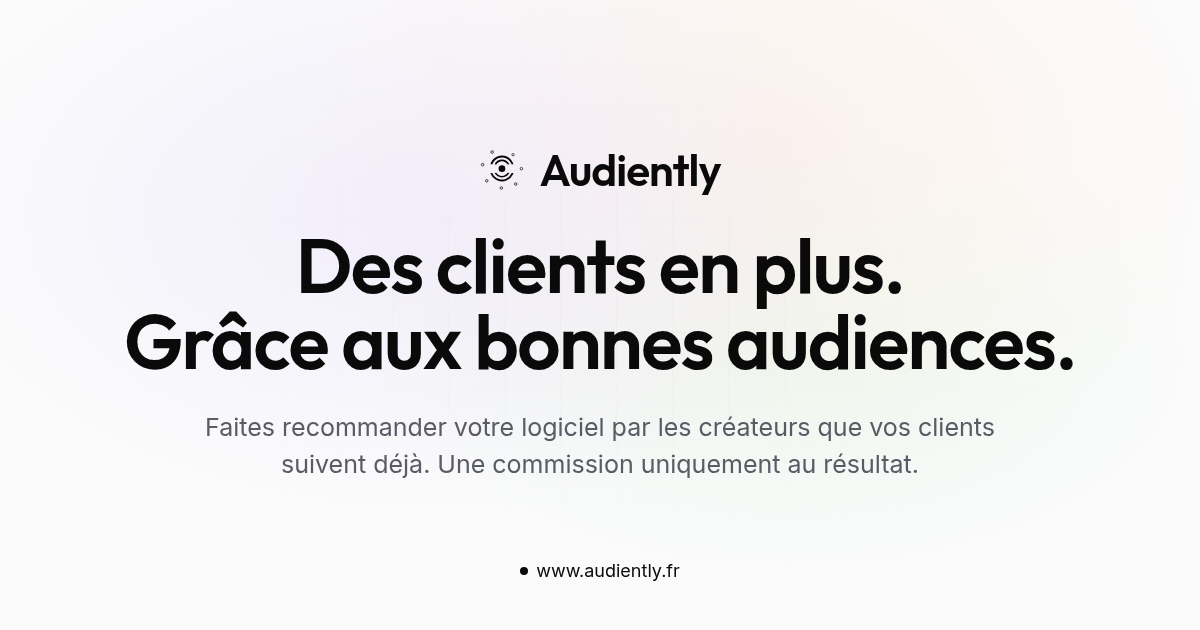
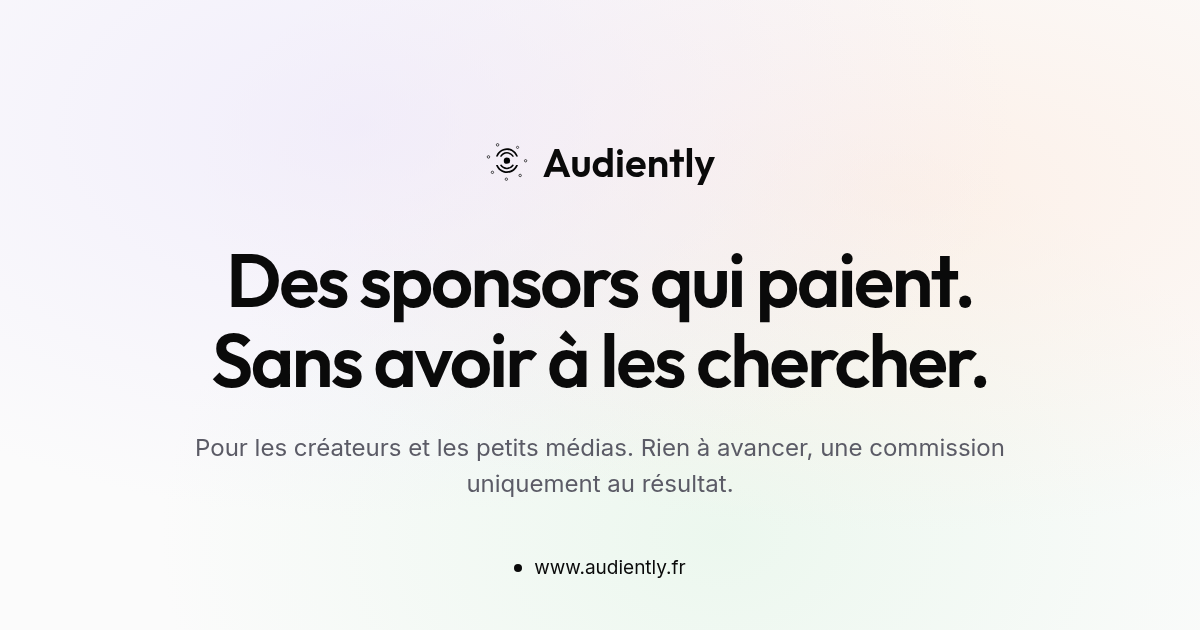
Site v4 : sponsors pour créateurs et petits médias

diff --git a/index.html b/index.html
@@ -3,8 +3,8 @@
 <head>
   <meta charset="utf-8">
   <meta name="viewport" content="width=device-width, initial-scale=1">
-  <title>Audiently — Créateurs et affiliation au résultat pour logiciels</title>
-  <meta name="description" content="Éditeurs de SaaS et d’apps : faites recommander votre logiciel par les créateurs suivis par vos clients. Sans frais d’entrée, commission au résultat.">
+  <title>Audiently — Des sponsors pour les créateurs et les petits médias</title>
+  <meta name="description" content="Créateurs et petits médias : Audiently vous trouve des sponsors qui paient, sans démarchage de votre part. Rien à avancer, une commission au résultat.">
   <meta name="robots" content="index, follow, max-image-preview:large">
   <meta name="author" content="Sébastien Kothé">
   <link rel="canonical" href="https://www.audiently.fr/">
@@ -19,19 +19,19 @@
   <meta property="og:type" content="website">
   <meta property="og:locale" content="fr_FR">
   <meta property="og:site_name" content="Audiently">
-  <meta property="og:title" content="Audiently — Des clients en plus, une commission au résultat">
-  <meta property="og:description" content="Votre logiciel, recommandé par les créateurs que vos clients suivent déjà. Vous ne payez une commission que lorsqu’un client apporté s’abonne et paie.">
+  <meta property="og:title" content="Audiently — Des sponsors qui paient, sans les chercher">
+  <meta property="og:description" content="Votre audience a de la valeur. Audiently vous présente les marques prêtes à la sponsoriser. Rien à avancer.">
   <meta property="og:url" content="https://www.audiently.fr/">
   <meta property="og:image" content="https://www.audiently.fr/assets/img/og-image.png">
   <meta property="og:image:type" content="image/png">
   <meta property="og:image:width" content="1200">
   <meta property="og:image:height" content="630">
-  <meta property="og:image:alt" content="Audiently : des clients en plus, grâce aux bonnes audiences.">
+  <meta property="og:image:alt" content="Audiently : des sponsors qui paient, sans avoir à les chercher.">
   <meta name="twitter:card" content="summary_large_image">
-  <meta name="twitter:title" content="Audiently — Des clients en plus, une commission au résultat">
-  <meta name="twitter:description" content="Votre logiciel, recommandé par les créateurs que vos clients suivent déjà. Vous ne payez une commission que lorsqu’un client apporté s’abonne et paie.">
+  <meta name="twitter:title" content="Audiently — Des sponsors qui paient, sans les chercher">
+  <meta name="twitter:description" content="Votre audience a de la valeur. Audiently vous présente les marques prêtes à la sponsoriser. Rien à avancer.">
   <meta name="twitter:image" content="https://www.audiently.fr/assets/img/og-image.png">
-  <meta name="twitter:image:alt" content="Audiently : des clients en plus, grâce aux bonnes audiences.">
+  <meta name="twitter:image:alt" content="Audiently : des sponsors qui paient, sans avoir à les chercher.">
   <script type="application/ld+json">
 {
   "@context": "https://schema.org",
@@ -48,7 +48,7 @@
         "height": 512
       },
       "image": "https://www.audiently.fr/assets/img/og-image.png",
-      "description": "Audiently met en relation les éditeurs de logiciels avec les créateurs et médias suivis par leurs clients, avec une commission uniquement sur les abonnements payés.",
+      "description": "Audiently trouve des sponsors pour les créateurs et les petits médias, avec une commission de 20 % sur chaque sponsor pendant 6 mois.",
       "email": "sebastien.kothe.pro@gmail.com",
       "areaServed": {
         "@type": "Country",
@@ -95,10 +95,10 @@
   <header class="site-header container">
     <a class="brand" href="#accueil" aria-label="Audiently, accueil"><img src="assets/img/logo.svg" width="28" height="28" alt=""><span>Audiently</span></a>
     <nav aria-label="Navigation principale">
-      <a class="nav-link" href="#editeurs">Éditeurs</a>
       <a class="nav-link" href="#createurs">Créateurs</a>
+      <a class="nav-link" href="#sponsors">Sponsors</a>
       <a class="nav-link nav-how" href="#fonctionnement">Comment ça marche</a>
-      <a class="button button-small" data-goatcounter-click="cta-header" data-goatcounter-title="Parlons de votre projet (en-tête)" href="mailto:sebastien.kothe.pro@gmail.com?subject=Parlons%20de%20mon%20projet%20avec%20Audiently"><span class="label-wide">Parlons de votre projet</span><span class="label-short">Parlons-en</span><span class="arrow" aria-hidden="true">↗</span></a>
+      <a class="button button-small" data-goatcounter-click="cta-header" data-goatcounter-title="Parlons de votre audience (en-tête)" href="mailto:sebastien.kothe.pro@gmail.com?subject=Trouver%20des%20sponsors%20avec%20Audiently"><span class="label-wide">Parlons de votre audience</span><span class="label-short">Parlons-en</span><span class="arrow" aria-hidden="true">↗</span></a>
     </nav>
   </header>
   <main id="contenu">
@@ -106,86 +106,86 @@
       <div class="hero-halo" aria-hidden="true"></div>
       <div class="container hero-grid">
         <div class="hero-copy">
-          <p class="eyebrow"><span class="status-dot" aria-hidden="true"></span>Les logiciels utiles rencontrent leur public</p>
-          <h1 id="hero-title"><span>Des clients en plus.</span><span>Grâce aux bonnes</span><span><span class="word-mark">audiences.</span></span></h1>
-          <p class="hero-description">Faites recommander votre logiciel par les créateurs que vos clients suivent déjà. Vous ne payez une commission que lorsqu’un client apporté s’abonne et paie.</p>
-          <a class="button" data-goatcounter-click="cta-hero" data-goatcounter-title="Parlons de votre logiciel (accueil)" href="mailto:sebastien.kothe.pro@gmail.com?subject=Faire%20conna%C3%AEtre%20mon%20logiciel%20avec%20Audiently">Parlons de votre logiciel <span class="arrow" aria-hidden="true">↗</span></a>
-          <p class="hero-note">Pas de forfait. Pas de frais d’entrée. Au résultat.</p>
+          <p class="eyebrow"><span class="status-dot" aria-hidden="true"></span>Pour les créateurs et les petits médias</p>
+          <h1 id="hero-title"><span>Des sponsors.</span><span>Sans avoir à les</span><span><span class="word-mark">chercher.</span></span></h1>
+          <p class="hero-description">Votre audience est fidèle, même si elle est petite. Audiently trouve les marques prêtes à la sponsoriser et vous les présente. Vous n’avez rien à démarcher.</p>
+          <a class="button" data-goatcounter-click="cta-hero" data-goatcounter-title="Présenter mon audience (accueil)" href="mailto:sebastien.kothe.pro@gmail.com?subject=Trouver%20des%20sponsors%20pour%20mon%20audience">Présenter mon audience <span class="arrow" aria-hidden="true">↗</span></a>
+          <p class="hero-note">Rien à avancer. Pas de frais d’entrée. Au résultat.</p>
         </div>
         <div class="hero-visual">
-          <p class="visual-caption"><span class="accent-stroke" aria-hidden="true"></span>Une recommandation. Un abonnement. Une commission.</p>
+          <p class="visual-caption"><span class="accent-stroke" aria-hidden="true"></span>Une audience. Un sponsor. Un paiement.</p>
           <figure class="journey-card" aria-labelledby="example-caption">
             <figcaption class="journey-heading" id="example-caption">
-              <div><span class="interface-label">Le parcours d’un client</span><span class="interface-description">Schéma de fonctionnement</span></div>
+              <div><span class="interface-label">Le parcours d’un sponsor</span><span class="interface-description">Schéma de fonctionnement</span></div>
               <span class="badge">Le principe</span>
             </figcaption>
             <ol class="journey" role="list">
-              <li><span class="journey-icon"><svg width="24" height="24" viewBox="0 0 24 24" fill="none" stroke="currentColor" stroke-width="1.5" stroke-linecap="round" stroke-linejoin="round" aria-hidden="true"><rect x="3" y="4" width="18" height="16" rx="3"/><path d="M3 9h18M7 6.5h.01M10 6.5h.01M8 13h8M8 16h5"/></svg></span><div><strong class="journey-title">Votre logiciel</strong><p>Une solution utile à faire connaître</p></div><span class="node-indicator" aria-hidden="true"></span></li>
-              <li><span class="journey-icon"><svg width="24" height="24" viewBox="0 0 24 24" fill="none" stroke="currentColor" stroke-width="1.5" stroke-linecap="round" stroke-linejoin="round" aria-hidden="true"><path d="m4 10 12-5v14L4 14zM16 9h2a3 3 0 0 1 0 6h-2M5 15l1 5h4l-2-4"/></svg></span><div><strong class="journey-title">Le bon créateur</strong><p>Une recommandation avec un lien suivi</p></div><span class="node-indicator" aria-hidden="true"></span></li>
-              <li><span class="journey-icon journey-icon-paid"><svg width="24" height="24" viewBox="0 0 24 24" fill="none" stroke="currentColor" stroke-width="1.5" stroke-linecap="round" stroke-linejoin="round" aria-hidden="true"><rect x="3" y="4" width="18" height="16" rx="3"/><path d="M3 9h18m-10 5 2 2 4-4"/></svg></span><div><strong class="journey-title">Un client abonné</strong><p>Un abonnement réellement payé</p></div><span class="paid-indicator" aria-hidden="true"><svg width="24" height="24" viewBox="0 0 24 24" fill="none" stroke="currentColor" stroke-width="1.5" stroke-linecap="round" stroke-linejoin="round" aria-hidden="true"><path d="m6 12 4 4 8-8"/></svg></span></li>
+              <li><span class="journey-icon"><svg width="24" height="24" viewBox="0 0 24 24" fill="none" stroke="currentColor" stroke-width="1.5" stroke-linecap="round" stroke-linejoin="round" aria-hidden="true"><rect x="3" y="4" width="18" height="16" rx="3"/><path d="M3 9h18M7 6.5h.01M10 6.5h.01M8 13h8M8 16h5"/></svg></span><div><strong class="journey-title">Votre audience</strong><p>Une communauté qui vous fait confiance</p></div><span class="node-indicator" aria-hidden="true"></span></li>
+              <li><span class="journey-icon"><svg width="24" height="24" viewBox="0 0 24 24" fill="none" stroke="currentColor" stroke-width="1.5" stroke-linecap="round" stroke-linejoin="round" aria-hidden="true"><path d="m4 10 12-5v14L4 14zM16 9h2a3 3 0 0 1 0 6h-2M5 15l1 5h4l-2-4"/></svg></span><div><strong class="journey-title">Le bon sponsor</strong><p>Une marque en phase avec vos sujets</p></div><span class="node-indicator" aria-hidden="true"></span></li>
+              <li><span class="journey-icon journey-icon-paid"><svg width="24" height="24" viewBox="0 0 24 24" fill="none" stroke="currentColor" stroke-width="1.5" stroke-linecap="round" stroke-linejoin="round" aria-hidden="true"><rect x="3" y="4" width="18" height="16" rx="3"/><path d="M3 9h18m-10 5 2 2 4-4"/></svg></span><div><strong class="journey-title">Un sponsor qui paie</strong><p>Une collaboration réellement payée</p></div><span class="paid-indicator" aria-hidden="true"><svg width="24" height="24" viewBox="0 0 24 24" fill="none" stroke="currentColor" stroke-width="1.5" stroke-linecap="round" stroke-linejoin="round" aria-hidden="true"><path d="m6 12 4 4 8-8"/></svg></span></li>
             </ol>
-            <div class="example-result"><div class="result-copy"><p>La commission se déclenche <strong>au résultat.</strong></p><span class="badge">Abonnement payé</span></div><span class="result-track" aria-hidden="true"><span></span></span></div>
+            <div class="example-result"><div class="result-copy"><p>Notre commission se déclenche <strong>au paiement.</strong></p><span class="badge">Sponsor payé</span></div><span class="result-track" aria-hidden="true"><span></span></span></div>
           </figure>
-          <p class="example-note">Le créateur reçoit sa part de la commission,<br class="desktop-break"> selon les conditions convenues.</p>
+          <p class="example-note">20 % de chaque sponsor, pendant 6 mois<br class="desktop-break"> à partir de son premier paiement.</p>
         </div>
       </div>
       <div class="container">
         <ul class="principles" aria-label="Le principe au résultat" role="list">
-          <li><span class="principle-icon"><svg width="24" height="24" viewBox="0 0 24 24" fill="none" stroke="currentColor" stroke-width="1.5" stroke-linecap="round" stroke-linejoin="round" aria-hidden="true"><path d="m6 12 4 4 8-8"/><path d="M20 12v6a3 3 0 0 1-3 3H6a3 3 0 0 1-3-3V7a3 3 0 0 1 3-3h8"/></svg></span><span>Sans frais d’entrée</span></li>
-          <li><span class="principle-icon"><svg width="24" height="24" viewBox="0 0 24 24" fill="none" stroke="currentColor" stroke-width="1.5" stroke-linecap="round" stroke-linejoin="round" aria-hidden="true"><path d="m10 14 4-4m-6 6-1 1a4 4 0 0 1-6-6l4-4a4 4 0 0 1 6 0m2 1 1-1a4 4 0 0 1 6 6l-4 4a4 4 0 0 1-6 0" transform="translate(1 0)"/></svg></span><span>Un lien suivi</span></li>
+          <li><span class="principle-icon"><svg width="24" height="24" viewBox="0 0 24 24" fill="none" stroke="currentColor" stroke-width="1.5" stroke-linecap="round" stroke-linejoin="round" aria-hidden="true"><path d="m6 12 4 4 8-8"/><path d="M20 12v6a3 3 0 0 1-3 3H6a3 3 0 0 1-3-3V7a3 3 0 0 1 3-3h8"/></svg></span><span>Rien à avancer</span></li>
+          <li><span class="principle-icon"><svg width="24" height="24" viewBox="0 0 24 24" fill="none" stroke="currentColor" stroke-width="1.5" stroke-linecap="round" stroke-linejoin="round" aria-hidden="true"><path d="m10 14 4-4m-6 6-1 1a4 4 0 0 1-6-6l4-4a4 4 0 0 1 6 0m2 1 1-1a4 4 0 0 1 6 6l-4 4a4 4 0 0 1-6 0" transform="translate(1 0)"/></svg></span><span>Des formats clairs</span></li>
           <li><span class="principle-icon"><svg width="24" height="24" viewBox="0 0 24 24" fill="none" stroke="currentColor" stroke-width="1.5" stroke-linecap="round" stroke-linejoin="round" aria-hidden="true"><path d="M5 20h14M7 16v-4m5 4V8m5 8V4"/></svg></span><span>Commission au résultat</span></li>
         </ul>
       </div>
     </section>
     <div class="audiences container">
-      <section class="audience-section" id="editeurs" aria-labelledby="editeurs-title">
+      <section class="audience-section" id="createurs" aria-labelledby="createurs-title">
         <div class="audience-intro" data-reveal>
-          <p class="section-label"><span aria-hidden="true"></span>Pour les éditeurs</p>
-          <h2 id="editeurs-title">Votre prochain client<br>suit déjà quelqu’un.</h2>
-          <p>Vous développez un SaaS ou une app en France. Audiently vous met en relation avec les créateurs et médias suivis par votre clientèle.</p>
-          <a class="text-link" data-goatcounter-click="cta-editeurs" data-goatcounter-title="Présenter mon logiciel" href="mailto:sebastien.kothe.pro@gmail.com?subject=Pr%C3%A9senter%20mon%20logiciel%20%C3%A0%20Audiently">Présenter mon logiciel <span class="arrow" aria-hidden="true">↗</span></a>
+          <p class="section-label"><span aria-hidden="true"></span>Pour les créateurs &amp; petits médias</p>
+          <h2 id="createurs-title">Votre audience compte.<br>Des marques la cherchent.</h2>
+          <p>De 1 000 à 20 000 abonnés, sur YouTube, X, un podcast ou une newsletter ? Audiently vous présente des sponsors adaptés à votre public.</p>
+          <a class="text-link" data-goatcounter-click="cta-createurs" data-goatcounter-title="Présenter mon audience" href="mailto:sebastien.kothe.pro@gmail.com?subject=Pr%C3%A9senter%20mon%20audience%20%C3%A0%20Audiently">Présenter mon audience <span class="arrow" aria-hidden="true">↗</span></a>
         </div>
         <div class="benefit-card" data-reveal>
-          <div class="card-heading"><span class="card-symbol" aria-hidden="true"><svg width="24" height="24" viewBox="0 0 24 24" fill="none" stroke="currentColor" stroke-width="1.5" stroke-linecap="round" stroke-linejoin="round" aria-hidden="true"><circle cx="9" cy="8" r="3"/><path d="M3 20v-2a6 6 0 0 1 12 0v2M16 5a3 3 0 0 1 0 6m2 3a5 5 0 0 1 3 4v2"/></svg></span><p>Le bon public, le bon modèle.</p></div>
+          <div class="card-heading"><span class="card-symbol" aria-hidden="true"><svg width="24" height="24" viewBox="0 0 24 24" fill="none" stroke="currentColor" stroke-width="1.5" stroke-linecap="round" stroke-linejoin="round" aria-hidden="true"><circle cx="9" cy="8" r="3"/><path d="M3 20v-2a6 6 0 0 1 12 0v2M16 5a3 3 0 0 1 0 6m2 3a5 5 0 0 1 3 4v2"/></svg></span><p>Le bon sponsor, sans démarcher.</p></div>
           <ul class="benefits" role="list">
-            <li><span class="feature-icon"><svg width="24" height="24" viewBox="0 0 24 24" fill="none" stroke="currentColor" stroke-width="1.5" stroke-linecap="round" stroke-linejoin="round" aria-hidden="true"><circle cx="9" cy="8" r="3"/><path d="M3 20v-2a6 6 0 0 1 12 0v2M16 5a3 3 0 0 1 0 6m2 3a5 5 0 0 1 3 4v2"/></svg></span><div><h3>Des audiences pertinentes</h3><p>YouTube, podcasts, newsletters ou blogs : là où vos futurs clients sont déjà à l’écoute.</p></div></li>
-            <li><span class="feature-icon"><svg width="24" height="24" viewBox="0 0 24 24" fill="none" stroke="currentColor" stroke-width="1.5" stroke-linecap="round" stroke-linejoin="round" aria-hidden="true"><path d="m10 14 4-4m-6 6-1 1a4 4 0 0 1-6-6l4-4a4 4 0 0 1 6 0m2 1 1-1a4 4 0 0 1 6 6l-4 4a4 4 0 0 1-6 0" transform="translate(1 0)"/></svg></span><div><h3>Des recommandations attribuées</h3><p>Un lien suivi pour relier chaque client apporté au créateur qui l’a recommandé.</p></div></li>
-            <li><span class="feature-icon"><svg width="24" height="24" viewBox="0 0 24 24" fill="none" stroke="currentColor" stroke-width="1.5" stroke-linecap="round" stroke-linejoin="round" aria-hidden="true"><path d="M5 20h14M7 16v-4m5 4V8m5 8V4"/></svg></span><div><h3>Une commission au résultat</h3><p>Vous payez uniquement pour les clients apportés qui s’abonnent et paient.</p></div></li>
+            <li><span class="feature-icon"><svg width="24" height="24" viewBox="0 0 24 24" fill="none" stroke="currentColor" stroke-width="1.5" stroke-linecap="round" stroke-linejoin="round" aria-hidden="true"><circle cx="9" cy="8" r="3"/><path d="M3 20v-2a6 6 0 0 1 12 0v2M16 5a3 3 0 0 1 0 6m2 3a5 5 0 0 1 3 4v2"/></svg></span><div><h3>Des sponsors qui vous ressemblent</h3><p>Des marques en lien avec vos sujets et votre public. Vous restez libre d’accepter ou de refuser.</p></div></li>
+            <li><span class="feature-icon"><svg width="24" height="24" viewBox="0 0 24 24" fill="none" stroke="currentColor" stroke-width="1.5" stroke-linecap="round" stroke-linejoin="round" aria-hidden="true"><path d="m10 14 4-4m-6 6-1 1a4 4 0 0 1-6-6l4-4a4 4 0 0 1 6 0m2 1 1-1a4 4 0 0 1 6 6l-4 4a4 4 0 0 1-6 0" transform="translate(1 0)"/></svg></span><div><h3>Des formats simples</h3><p>Intégration YouTube, post X, interview de lancement ou pack événement : vous savez ce que vous livrez.</p></div></li>
+            <li><span class="feature-icon"><svg width="24" height="24" viewBox="0 0 24 24" fill="none" stroke="currentColor" stroke-width="1.5" stroke-linecap="round" stroke-linejoin="round" aria-hidden="true"><path d="M5 20h14M7 16v-4m5 4V8m5 8V4"/></svg></span><div><h3>Une commission au résultat</h3><p>Rien à avancer. Audiently prend 20 % de chaque sponsor, pendant 6 mois à partir de son premier paiement.</p></div></li>
           </ul>
         </div>
       </section>
-      <section class="audience-section creator-section" id="createurs" aria-labelledby="createurs-title">
+      <section class="audience-section creator-section" id="sponsors" aria-labelledby="sponsors-title">
         <div class="audience-intro" data-reveal>
-          <p class="section-label"><span aria-hidden="true"></span>Pour les créateurs &amp; médias</p>
-          <h2 id="createurs-title">Recommandez utile.<br>Soyez rémunéré.</h2>
-          <p>Votre audience vous suit pour vos choix. Faites-lui découvrir des logiciels qui lui rendent service, en gardant votre liberté de recommandation.</p>
-          <a class="text-link" data-goatcounter-click="cta-createurs" data-goatcounter-title="Présenter mon audience" href="mailto:sebastien.kothe.pro@gmail.com?subject=Pr%C3%A9senter%20mon%20audience%20%C3%A0%20Audiently">Présenter mon audience <span class="arrow" aria-hidden="true">↗</span></a>
+          <p class="section-label"><span aria-hidden="true"></span>Pour les marques</p>
+          <h2 id="sponsors-title">Des audiences fidèles.<br>Prêtes à vous découvrir.</h2>
+          <p>Vous lancez un produit, un logiciel ou un événement ? Audiently vous présente les créateurs et les petits médias que suit votre futur public.</p>
+          <a class="text-link" data-goatcounter-click="cta-sponsors" data-goatcounter-title="Devenir sponsor" href="mailto:sebastien.kothe.pro@gmail.com?subject=Devenir%20sponsor%20avec%20Audiently">Devenir sponsor <span class="arrow" aria-hidden="true">↗</span></a>
         </div>
         <div class="benefit-card creator-card" data-reveal>
-          <div class="card-heading"><div class="media-icons" aria-hidden="true"><span><svg width="24" height="24" viewBox="0 0 24 24" fill="none" stroke="currentColor" stroke-width="1.5" stroke-linecap="round" stroke-linejoin="round" aria-hidden="true"><rect x="3" y="5" width="18" height="14" rx="4"/><path d="m10 9 5 3-5 3z"/></svg></span><span><svg width="24" height="24" viewBox="0 0 24 24" fill="none" stroke="currentColor" stroke-width="1.5" stroke-linecap="round" stroke-linejoin="round" aria-hidden="true"><rect x="9" y="3" width="6" height="12" rx="3"/><path d="M5 10v2a7 7 0 0 0 14 0v-2M12 19v3M8 22h8"/></svg></span><span><svg width="24" height="24" viewBox="0 0 24 24" fill="none" stroke="currentColor" stroke-width="1.5" stroke-linecap="round" stroke-linejoin="round" aria-hidden="true"><rect x="3" y="4" width="18" height="16" rx="3"/><path d="M7 8h10M7 12h4M7 16h10M15 12h2"/></svg></span></div><p>Votre audience reste votre priorité.</p></div>
+          <div class="card-heading"><div class="media-icons" aria-hidden="true"><span><svg width="24" height="24" viewBox="0 0 24 24" fill="none" stroke="currentColor" stroke-width="1.5" stroke-linecap="round" stroke-linejoin="round" aria-hidden="true"><rect x="3" y="5" width="18" height="14" rx="4"/><path d="m10 9 5 3-5 3z"/></svg></span><span><svg width="24" height="24" viewBox="0 0 24 24" fill="none" stroke="currentColor" stroke-width="1.5" stroke-linecap="round" stroke-linejoin="round" aria-hidden="true"><rect x="9" y="3" width="6" height="12" rx="3"/><path d="M5 10v2a7 7 0 0 0 14 0v-2M12 19v3M8 22h8"/></svg></span><span><svg width="24" height="24" viewBox="0 0 24 24" fill="none" stroke="currentColor" stroke-width="1.5" stroke-linecap="round" stroke-linejoin="round" aria-hidden="true"><rect x="3" y="4" width="18" height="16" rx="3"/><path d="M7 8h10M7 12h4M7 16h10M15 12h2"/></svg></span></div><p>Des formats prêts à lancer.</p></div>
           <ul class="benefits" role="list">
-            <li><span class="feature-icon"><svg width="24" height="24" viewBox="0 0 24 24" fill="none" stroke="currentColor" stroke-width="1.5" stroke-linecap="round" stroke-linejoin="round" aria-hidden="true"><path d="m6 12 4 4 8-8"/><path d="M20 12v6a3 3 0 0 1-3 3H6a3 3 0 0 1-3-3V7a3 3 0 0 1 3-3h8"/></svg></span><div><h3>Des logiciels qui ont du sens</h3><p>Des propositions adaptées aux besoins de votre audience. Vous restez libre de les accepter ou de les refuser.</p></div></li>
-            <li><span class="feature-icon"><svg width="24" height="24" viewBox="0 0 24 24" fill="none" stroke="currentColor" stroke-width="1.5" stroke-linecap="round" stroke-linejoin="round" aria-hidden="true"><path d="M5 20h14M7 16v-4m5 4V8m5 8V4"/></svg></span><div><h3>Une part pour chaque client apporté</h3><p>Vous êtes rémunéré lorsqu’un client venu de votre lien s’abonne et paie.</p></div></li>
-            <li><span class="feature-icon"><svg width="24" height="24" viewBox="0 0 24 24" fill="none" stroke="currentColor" stroke-width="1.5" stroke-linecap="round" stroke-linejoin="round" aria-hidden="true"><path d="M14 3H6a2 2 0 0 0-2 2v14a2 2 0 0 0 2 2h12a2 2 0 0 0 2-2V9zM14 3v6h6M8 13h8M8 17h5"/></svg></span><div><h3>Des conditions transparentes</h3><p>Les modalités sont définies par écrit et les recommandations signalées comme collaborations commerciales.</p></div></li>
+            <li><span class="feature-icon"><svg width="24" height="24" viewBox="0 0 24 24" fill="none" stroke="currentColor" stroke-width="1.5" stroke-linecap="round" stroke-linejoin="round" aria-hidden="true"><path d="m6 12 4 4 8-8"/><path d="M20 12v6a3 3 0 0 1-3 3H6a3 3 0 0 1-3-3V7a3 3 0 0 1 3-3h8"/></svg></span><div><h3>Des communautés attentives</h3><p>Des audiences de taille humaine, qui écoutent ce que leur créateur recommande.</p></div></li>
+            <li><span class="feature-icon"><svg width="24" height="24" viewBox="0 0 24 24" fill="none" stroke="currentColor" stroke-width="1.5" stroke-linecap="round" stroke-linejoin="round" aria-hidden="true"><path d="M5 20h14M7 16v-4m5 4V8m5 8V4"/></svg></span><div><h3>Quatre formats au choix</h3><p>Intégration YouTube, post X, interview de lancement ou pack événement.</p></div></li>
+            <li><span class="feature-icon"><svg width="24" height="24" viewBox="0 0 24 24" fill="none" stroke="currentColor" stroke-width="1.5" stroke-linecap="round" stroke-linejoin="round" aria-hidden="true"><path d="M14 3H6a2 2 0 0 0-2 2v14a2 2 0 0 0 2 2h12a2 2 0 0 0 2-2V9zM14 3v6h6M8 13h8M8 17h5"/></svg></span><div><h3>Un cadre écrit</h3><p>Format, prix et dates sont fixés par écrit. Chaque collaboration est signalée comme commerciale.</p></div></li>
           </ul>
         </div>
       </section>
     </div>
     <section class="how-section" id="fonctionnement" aria-labelledby="how-title">
       <div class="container">
-        <div class="section-heading" data-reveal><p class="section-label"><span aria-hidden="true"></span>Comment ça marche</p><h2 id="how-title">Du bon contact<br>au client abonné.</h2><p class="section-description">Un intérêt commun, à chaque étape.</p></div>
+        <div class="section-heading" data-reveal><p class="section-label"><span aria-hidden="true"></span>Comment ça marche</p><h2 id="how-title">De votre audience<br>au sponsor qui paie.</h2><p class="section-description">Un intérêt commun, à chaque étape.</p></div>
         <ol class="steps" role="list">
-          <li data-reveal><div class="step-line"><span class="step-number" aria-hidden="true">01</span><span aria-hidden="true"></span></div><h3>Nous faisons le lien</h3><p>Vous nous présentez votre logiciel ou votre audience. Nous identifions les associations pertinentes.</p></li>
-          <li data-reveal><div class="step-line"><span class="step-number" aria-hidden="true">02</span><span aria-hidden="true"></span></div><h3>Le créateur recommande</h3><p>Les conditions sont fixées par écrit avec l’éditeur. Le créateur partage le logiciel avec son lien suivi.</p></li>
-          <li data-reveal><div class="step-line"><span class="step-number" aria-hidden="true">03</span><span aria-hidden="true"></span></div><h3>Le résultat rémunère</h3><p>Un client apporté s’abonne et paie. L’éditeur verse la commission, dont une part revient au créateur.</p></li>
+          <li data-reveal><div class="step-line"><span class="step-number" aria-hidden="true">01</span><span aria-hidden="true"></span></div><h3>Vous vous présentez</h3><p>Vous nous parlez de votre audience et de vos sujets. Nous cherchons les marques qui vous correspondent.</p></li>
+          <li data-reveal><div class="step-line"><span class="step-number" aria-hidden="true">02</span><span aria-hidden="true"></span></div><h3>Le sponsor s’engage</h3><p>Format, prix et dates sont fixés par écrit avec la marque. Vous publiez à votre façon.</p></li>
+          <li data-reveal><div class="step-line"><span class="step-number" aria-hidden="true">03</span><span aria-hidden="true"></span></div><h3>Vous êtes payé</h3><p>Le sponsor paie la collaboration. Audiently prend 20 %, pendant 6 mois à partir de son premier paiement.</p></li>
         </ol>
-        <p class="how-note"><span aria-hidden="true"><svg width="24" height="24" viewBox="0 0 24 24" fill="none" stroke="currentColor" stroke-width="1.5" stroke-linecap="round" stroke-linejoin="round" aria-hidden="true"><path d="m6 12 4 4 8-8"/></svg></span>Ni l’éditeur ni le créateur n’avancent d’argent.</p>
+        <p class="how-note"><span aria-hidden="true"><svg width="24" height="24" viewBox="0 0 24 24" fill="none" stroke="currentColor" stroke-width="1.5" stroke-linecap="round" stroke-linejoin="round" aria-hidden="true"><path d="m6 12 4 4 8-8"/></svg></span>Vous n’avancez rien. Audiently n’est payé que si vous l’êtes.</p>
       </div>
     </section>
     <section class="contact-section container" aria-labelledby="contact-title">
       <div class="contact-card" data-reveal>
         <p class="section-label"><span aria-hidden="true"></span>La bonne rencontre commence ici</p>
-        <h2 id="contact-title">Votre logiciel. Votre audience.<br>Parlons de la suite.</h2>
+        <h2 id="contact-title">Votre audience. Vos sujets.<br>Parlons de vos sponsors.</h2>
         <p>Présentez-nous ce que vous faites.<br>Sébastien Kothé, fondateur d’Audiently, vous répond.</p>
         <a class="button" data-goatcounter-click="cta-contact" data-goatcounter-title="Échanger avec Sébastien" href="mailto:sebastien.kothe.pro@gmail.com?subject=Prendre%20contact%20avec%20Audiently">Échanger avec Sébastien <span class="arrow" aria-hidden="true">↗</span></a>
         <div class="contact-details"><a class="contact-email" data-goatcounter-click="email-contact" data-goatcounter-title="Adresse e-mail (contact)" href="mailto:sebastien.kothe.pro@gmail.com">sebastien.kothe.pro@gmail.com</a><a class="contact-email" data-goatcounter-click="linkedin-fondateur" data-goatcounter-title="LinkedIn de Sébastien (contact)" href="https://www.linkedin.com/in/sebastienkothe" target="_blank" rel="noopener">Sébastien Kothé sur LinkedIn <span aria-hidden="true">↗</span></a></div>
@@ -195,8 +195,8 @@
   <footer class="site-footer">
     <div class="container">
       <div class="footer-main">
-        <div><a class="brand" href="#accueil" aria-label="Audiently, retour à l’accueil"><img src="assets/img/logo.svg" width="28" height="28" alt="" loading="lazy" decoding="async"><span>Audiently</span></a><p>Les bonnes audiences.<br>Une commission au résultat.</p></div>
-        <nav aria-label="Navigation de pied de page"><a href="#editeurs">Pour les éditeurs</a><a href="#createurs">Pour les créateurs</a><a href="#fonctionnement">Comment ça marche</a></nav>
+        <div><a class="brand" href="#accueil" aria-label="Audiently, retour à l’accueil"><img src="assets/img/logo.svg" width="28" height="28" alt="" loading="lazy" decoding="async"><span>Audiently</span></a><p>Des sponsors qui paient.<br>Une commission au résultat.</p></div>
+        <nav aria-label="Navigation de pied de page"><a href="#createurs">Pour les créateurs</a><a href="#sponsors">Pour les marques</a><a href="#fonctionnement">Comment ça marche</a></nav>
       </div>
       <div class="footer-bottom">
         <div class="legal" id="mentions-legales">

diff --git a/404.html b/404.html
@@ -20,7 +20,7 @@
   <header class="site-header container">
     <a class="brand" href="/" aria-label="Audiently, accueil"><img src="/assets/img/logo.svg" width="28" height="28" alt=""><span>Audiently</span></a>
     <nav aria-label="Navigation principale">
-      <a class="button button-small" data-goatcounter-click="cta-404-header" data-goatcounter-title="Parlons de votre projet (page 404)" href="mailto:sebastien.kothe.pro@gmail.com?subject=Parlons%20de%20mon%20projet%20avec%20Audiently"><span class="label-wide">Parlons de votre projet</span><span class="label-short">Parlons-en</span><span class="arrow" aria-hidden="true">↗</span></a>
+      <a class="button button-small" data-goatcounter-click="cta-404-header" data-goatcounter-title="Parlons de votre audience (page 404)" href="mailto:sebastien.kothe.pro@gmail.com?subject=Trouver%20des%20sponsors%20avec%20Audiently"><span class="label-wide">Parlons de votre audience</span><span class="label-short">Parlons-en</span><span class="arrow" aria-hidden="true">↗</span></a>
     </nav>
   </header>
   <main id="contenu">
@@ -37,8 +37,8 @@
   <footer class="site-footer">
     <div class="container">
       <div class="footer-main">
-        <div><a class="brand" href="/" aria-label="Audiently, retour à l’accueil"><img src="/assets/img/logo.svg" width="28" height="28" alt="" loading="lazy" decoding="async"><span>Audiently</span></a><p>Les bonnes audiences.<br>Une commission au résultat.</p></div>
-        <nav aria-label="Navigation de pied de page"><a href="/#editeurs">Pour les éditeurs</a><a href="/#createurs">Pour les créateurs</a><a href="/#mentions-legales">Mentions légales</a></nav>
+        <div><a class="brand" href="/" aria-label="Audiently, retour à l’accueil"><img src="/assets/img/logo.svg" width="28" height="28" alt="" loading="lazy" decoding="async"><span>Audiently</span></a><p>Des sponsors qui paient.<br>Une commission au résultat.</p></div>
+        <nav aria-label="Navigation de pied de page"><a href="/#createurs">Pour les créateurs</a><a href="/#sponsors">Pour les marques</a><a href="/#mentions-legales">Mentions légales</a></nav>
       </div>
       <p class="copyright">© 2026 Audiently</p>
     </div>

diff --git a/accueil.md b/accueil.md
@@ -1,22 +1,21 @@
 # Audiently
 
-Des clients en plus pour les éditeurs de logiciels, recommandés par les créateurs que leurs clients suivent déjà. Payé uniquement au résultat.
+Des sponsors qui paient, pour les créateurs et les petits médias, sans avoir à les chercher.
 
-## Pour les éditeurs
+## Pour les créateurs et les petits médias
 
-- Nous trouvons des créateurs (YouTube, podcasts, newsletters, blogs) suivis par votre clientèle : artisans, indépendants, petites entreprises.
-- Chaque créateur reçoit un lien suivi vers votre logiciel.
-- Vous payez une commission seulement sur les clients venus de ces liens qui s'abonnent et paient. Pas de forfait, pas de frais d'entrée.
+- De 1 000 à 20 000 abonnés, sur YouTube, X, un podcast ou une newsletter : Audiently vous présente des sponsors adaptés à votre public.
+- Des formats simples : intégration YouTube, post X, interview de lancement ou pack événement.
+- Vous restez libre d'accepter ou de refuser. Chaque collaboration est signalée comme commerciale.
 
-## Pour les créateurs
+## Pour les marques
 
-- Nous vous proposons des logiciels utiles à votre audience, avec des conditions claires.
-- Vous recommandez avec votre lien et vous touchez une part de la commission pour chaque client qui s'abonne.
-- Vous restez libre de refuser ce qui ne convient pas à votre audience. Les recommandations sont signalées comme collaboration commerciale.
+- Des créateurs et des petits médias suivis par votre futur public.
+- Format, prix et dates fixés par écrit.
 
-## Le principe : payé au résultat
+## Le principe : au résultat
 
-Ni l'éditeur ni le créateur n'avancent d'argent. La rémunération ne vient que des abonnements réellement payés par les clients amenés, selon des conditions écrites avec chaque éditeur.
+Vous n'avancez rien. Audiently prend 20 % de chaque sponsor, pendant 6 mois à partir de son premier paiement.
 
 ## Contact
 
